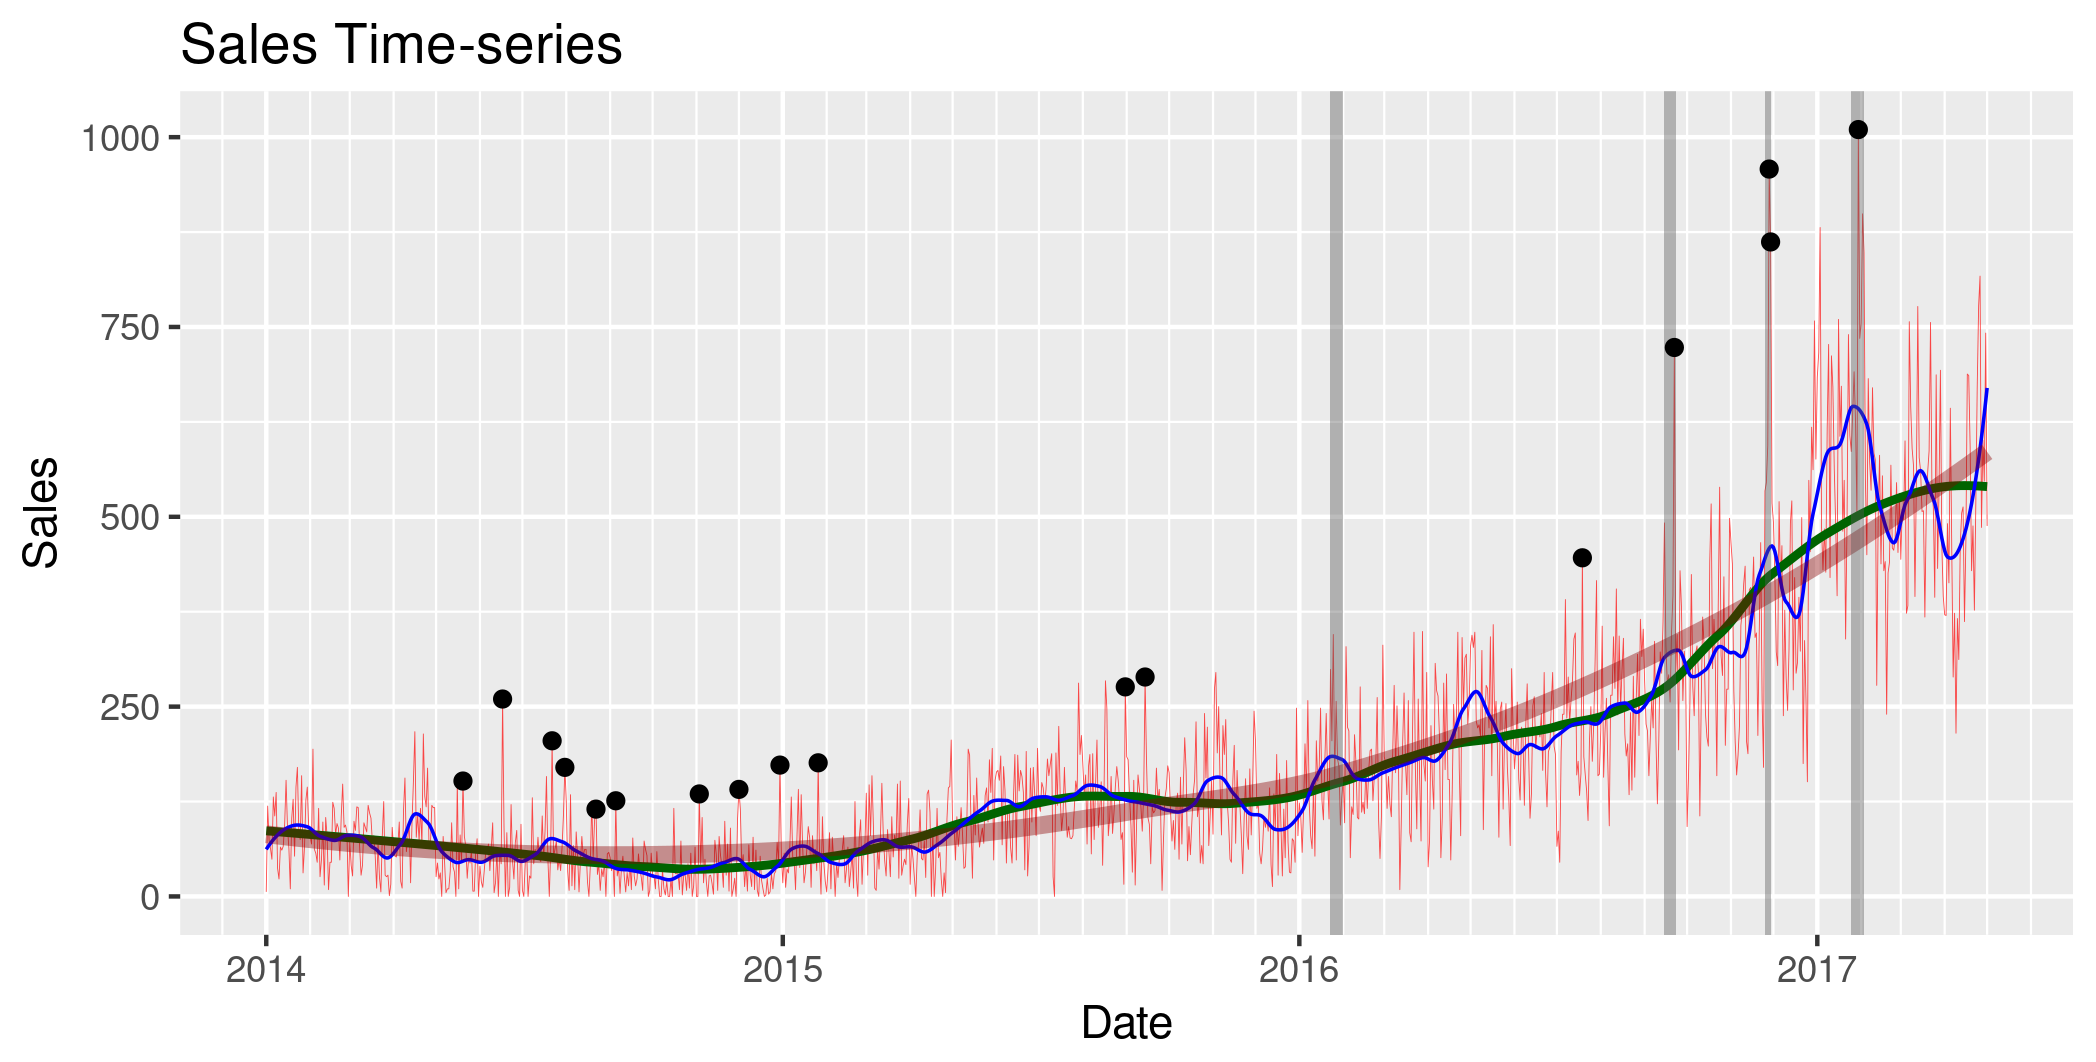
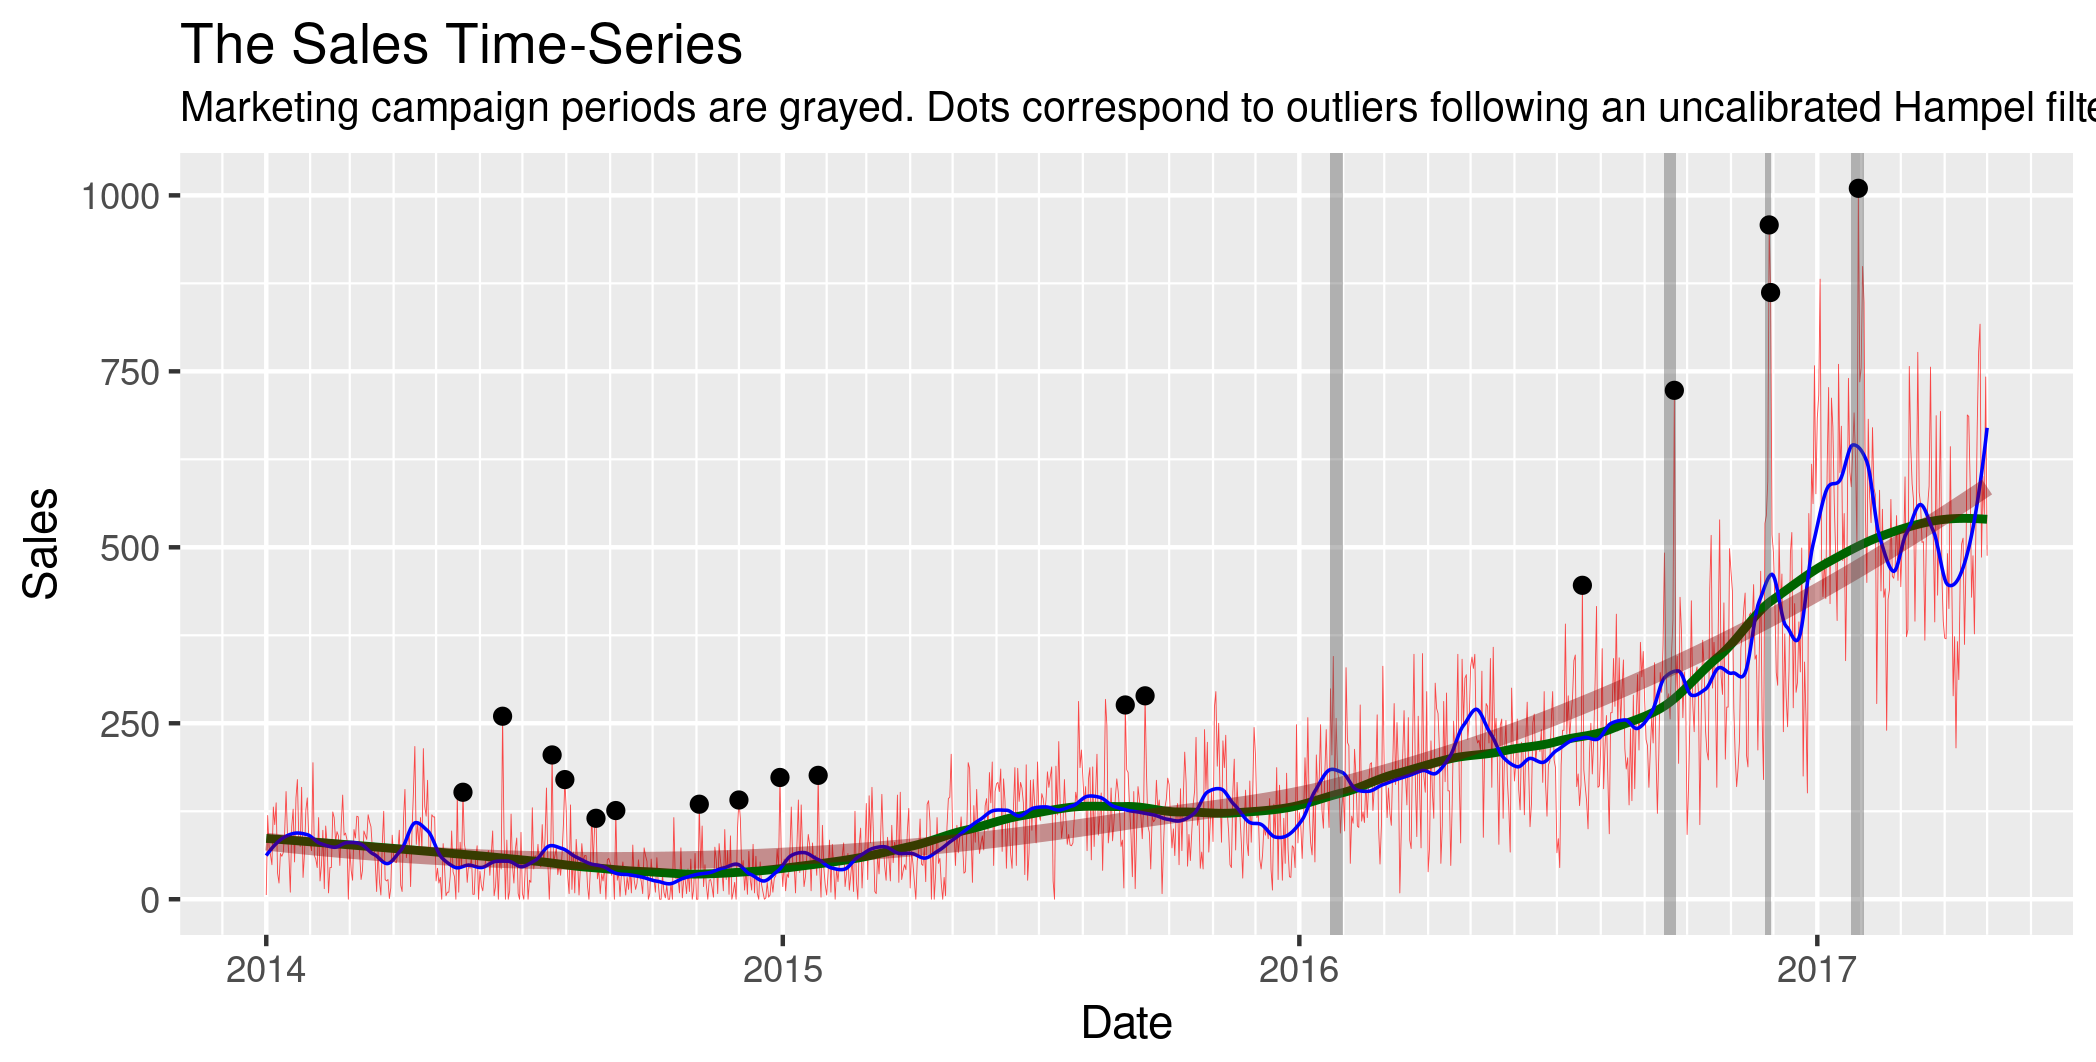
update

diff --git a/R_Forecasting_with_ARMAX/README.md b/R_Forecasting_with_ARMAX/README.md
@@ -204,16 +204,14 @@ figure <-   ggplot(DT) +
 	scale_x_date(  date_minor_breaks = '1 month', date_labels = '%Y', date_breaks = '1 year') +
     geom_rect(data = campaign.dates, aes(xmin = campaign.start, xmax = campaign.end, ymin = -Inf, ymax = Inf), alpha = 0.4) +
     geom_point(aes(x = date, y = outliers.NAs)) +
-    ggtitle('Sales Time-series') +
-    ylab('Sales') + xlab('Date')+
+    labs(title = 'The Sales Time-Series',
+         subtitle = 'Marketing campaign periods are grayed. Dots correspond to outliers following an uncalibrated Hampel filter.',
+         y = 'Sales',
+         x = 'Date') + 
     list()
 
 ggsave(filename = 'figures/03-sales-graph.png', plot = figure, height = 90, units = 'mm')
 ```
-
-The Sales Time-Series. 
-Marketing campaign periods are grayed. 
-Dots correspond to outliers following an uncalibrated Hampel filter.
 
 ![Sales graph](figures/03-sales-graph.png)
 
